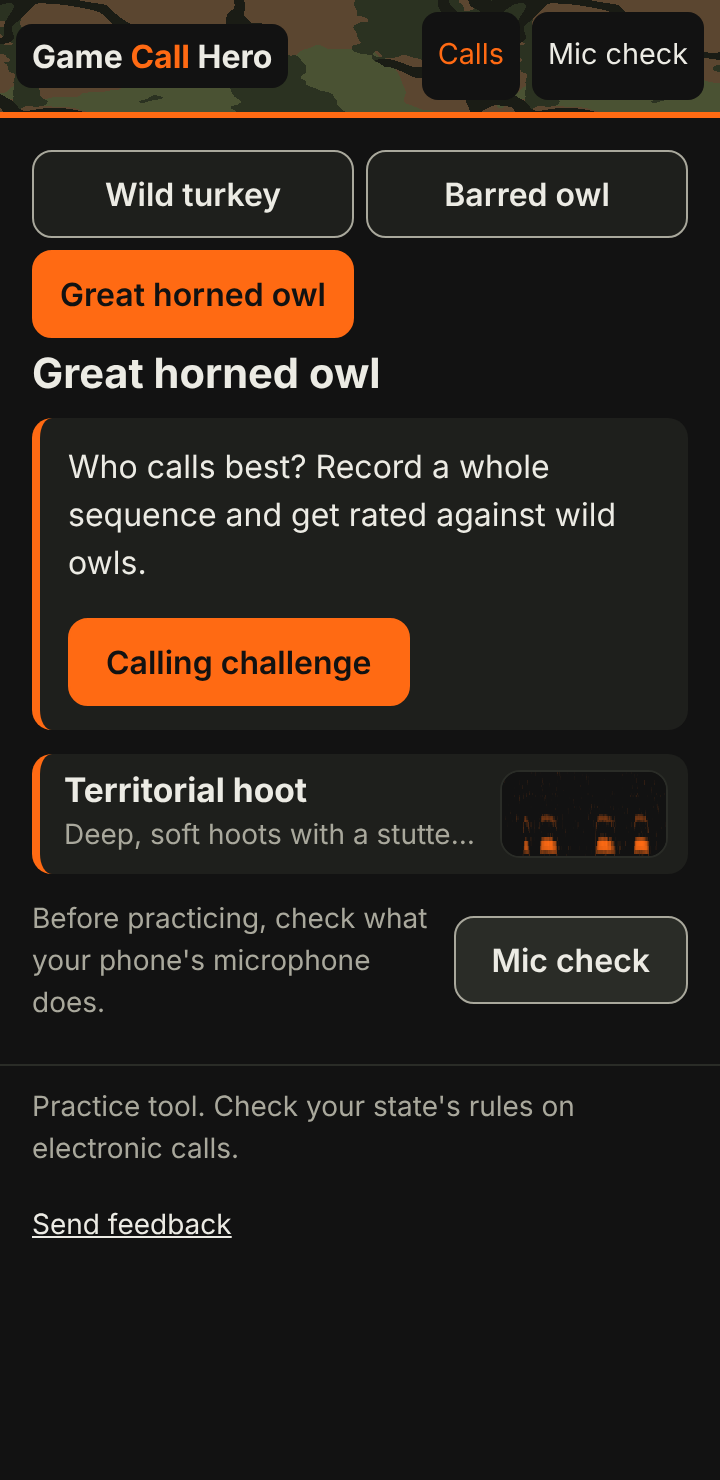
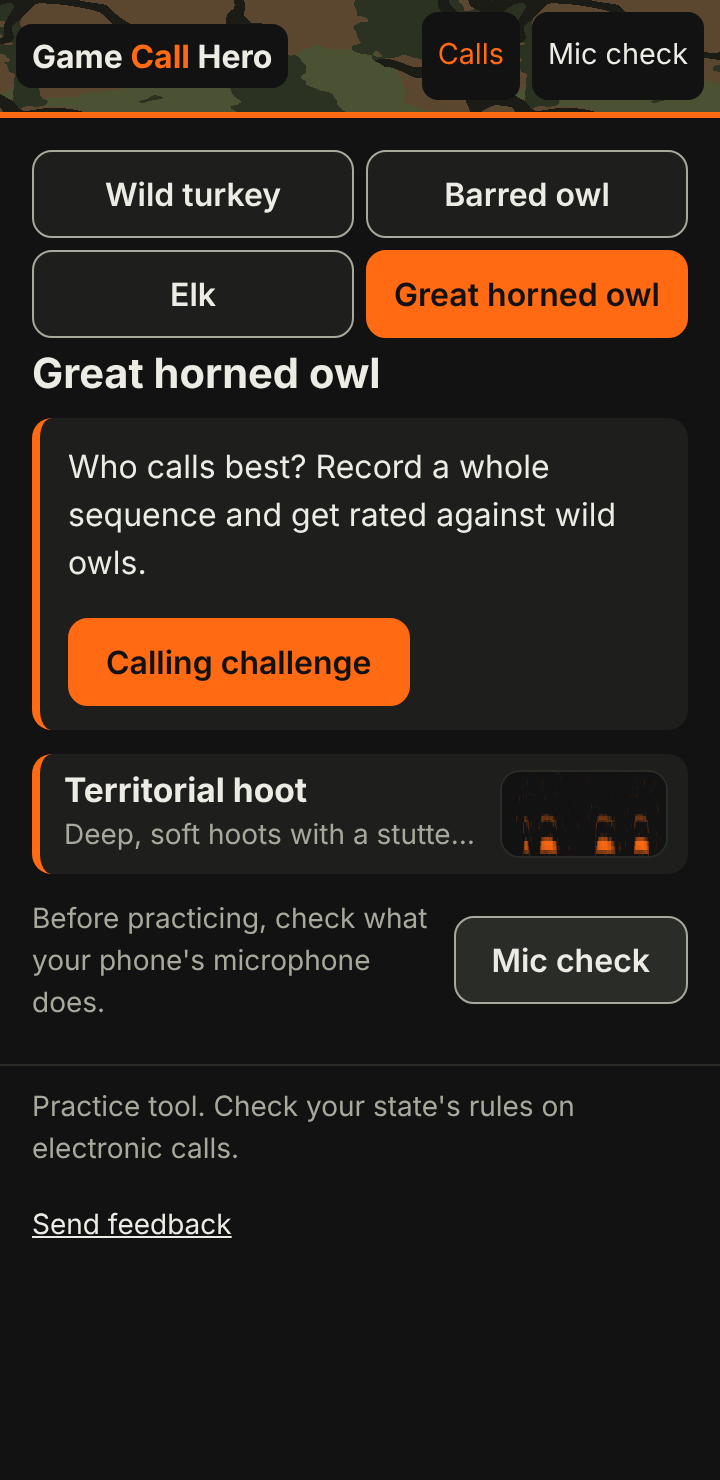
Phase 13: rebase onto elk, PR link and counts in STATUS
Claude-Session: https://claude.ai/code/session_017Dod3rRDws9VohXPbTdjZD

Changed region(s): [[0.0306, 0.1554, 0.9778, 0.2486]]

diff --git a/test/species.test.ts b/test/species.test.ts
@@ -77,8 +77,8 @@ describe('species calls', () => {
     for (const c of BARRED_OWL.calls) for (const p of c.references) expect(p).toMatch(/^audio\/barred-owl\//);
     for (const c of ELK.calls) for (const p of c.references) expect(p).toMatch(/^audio\/elk\//);
   });
-  it('species order and ids: turkey (default), barred owl, elk, mallard', () => {
-    expect(SPECIES.map((s) => s.id)).toEqual(['turkey', 'barred-owl', 'elk', 'mallard']);
+  it('species order and ids: turkey (default), barred owl, elk, mallard, great horned owl', () => {
+    expect(SPECIES.map((s) => s.id)).toEqual(['turkey', 'barred-owl', 'elk', 'mallard', 'great-horned-owl']);
     expect(ELK.calls.map((c) => [c.id, c.locked])).toEqual([
       ['bugle', true],
       ['glug', true],

diff --git a/docs/STATUS.md b/docs/STATUS.md
@@ -69,7 +69,7 @@ Limits:
   were scored). Next for a male/female split: an absolute-pitch feature as its own weight, and
   more clips from more birds.
 
-Verified: `npm ci && npm test` (313 unit tests), `npm run build`, `npm run e2e` (72 passed,
+Verified: `npm ci && npm test` (370 unit tests), `npm run build`, `npm run e2e` (84 passed,
 4 screenshot tests skipped) incl. new `e2e/practice-great-horned-owl.e2e.ts` (picker, call card,
 fake mic plays territorial-hoot-8: scored 95.6, saved under the great horned owl key) and the
 new screens in the a11y design pass. Screenshots: `docs/screenshots/home-great-horned-owl-360.png`,
